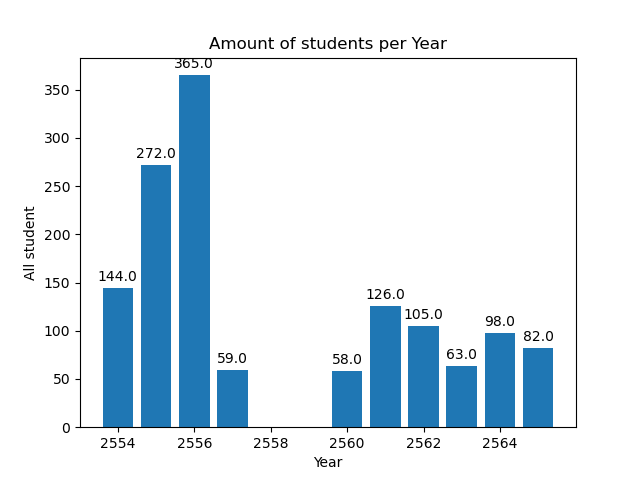
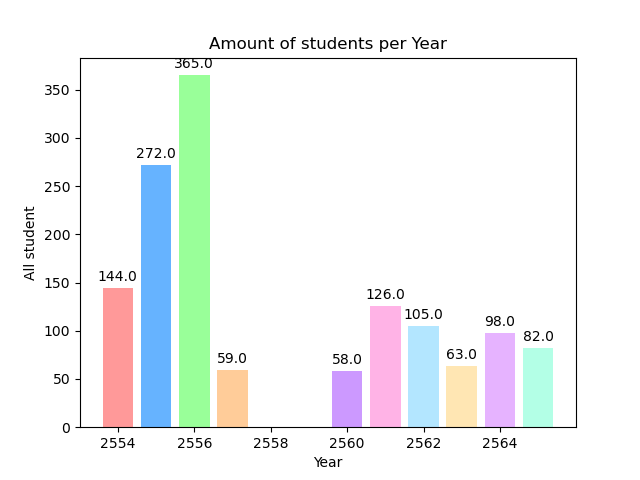
Big update data

Changed region(s): [[0.1562, 0.1562, 0.4062, 0.9062], [0.5, 0.625, 0.875, 0.9062]]

diff --git a/DataFrame of T.kholed/html/bar_chart.html b/DataFrame of T.kholed/html/bar_chart.html
@@ -3,6 +3,6 @@
 <script src="https://cdn.plot.ly/plotly-latest.min.js"></script>
 </head>
 <body>
-<div>                            <div id="62dfd16b-e0f4-4edf-ba11-87b3366b12a1" class="plotly-graph-div" style="height:100%; width:100%;"></div>            <script type="text/javascript">                                    window.PLOTLYENV=window.PLOTLYENV || {};                                    if (document.getElementById("62dfd16b-e0f4-4edf-ba11-87b3366b12a1")) {                    Plotly.newPlot(                        "62dfd16b-e0f4-4edf-ba11-87b3366b12a1",                        [{"x":[2554.0,2555.0,2556.0,2557.0,2560.0,2561.0,2562.0,2563.0,2564.0,2565.0,null,null,null,null,null,null,null,null,null,null,null,null,null,null,null,null,null,null,null,null,null,null,null,null,null,null,null,null,null,null,null,null,null,null,null,null,null,null,null,null,null,null,null,null,null,null,null,null,null,null,null,null,null,null,null,null,null,null,null,null,null,null,null,null,null,null,null,null,null,null,null,null,null,null,null,null,null,null,null,null,null,null,null,null,null,null,null,null,null,null,null,null,null,null,null,null,null,null,null,null,null,null,null,null,null,null,null],"y":[144.0,272.0,365.0,59.0,58.0,126.0,105.0,63.0,98.0,82.0,null,null,null,null,null,null,null,null,null,null,null,null,null,null,null,null,null,null,null,null,null,null,null,null,null,null,null,null,null,null,null,null,null,null,null,null,null,null,null,null,null,null,null,null,null,null,null,null,null,null,null,null,null,null,null,null,null,null,null,null,null,null,null,null,null,null,null,null,null,null,null,null,null,null,null,null,null,null,null,null,null,null,null,null,null,null,null,null,null,null,null,null,null,null,null,null,null,null,null,null,null,null,null,null,null,null,null],"type":"bar"}],                        {"template":{"data":{"candlestick":[{"decreasing":{"line":{"color":"#000033"}},"increasing":{"line":{"color":"#000032"}},"type":"candlestick"}],"contourcarpet":[{"colorscale":[[0.0,"#000011"],[0.1111111111111111,"#000012"],[0.2222222222222222,"#000013"],[0.3333333333333333,"#000014"],[0.4444444444444444,"#000015"],[0.5555555555555556,"#000016"],[0.6666666666666666,"#000017"],[0.7777777777777778,"#000018"],[0.8888888888888888,"#000019"],[1.0,"#000020"]],"type":"contourcarpet"}],"contour":[{"colorscale":[[0.0,"#000011"],[0.1111111111111111,"#000012"],[0.2222222222222222,"#000013"],[0.3333333333333333,"#000014"],[0.4444444444444444,"#000015"],[0.5555555555555556,"#000016"],[0.6666666666666666,"#000017"],[0.7777777777777778,"#000018"],[0.8888888888888888,"#000019"],[1.0,"#000020"]],"type":"contour"}],"heatmap":[{"colorscale":[[0.0,"#000011"],[0.1111111111111111,"#000012"],[0.2222222222222222,"#000013"],[0.3333333333333333,"#000014"],[0.4444444444444444,"#000015"],[0.5555555555555556,"#000016"],[0.6666666666666666,"#000017"],[0.7777777777777778,"#000018"],[0.8888888888888888,"#000019"],[1.0,"#000020"]],"type":"heatmap"}],"histogram2d":[{"colorscale":[[0.0,"#000011"],[0.1111111111111111,"#000012"],[0.2222222222222222,"#000013"],[0.3333333333333333,"#000014"],[0.4444444444444444,"#000015"],[0.5555555555555556,"#000016"],[0.6666666666666666,"#000017"],[0.7777777777777778,"#000018"],[0.8888888888888888,"#000019"],[1.0,"#000020"]],"type":"histogram2d"}],"icicle":[{"textfont":{"color":"white"},"type":"icicle"}],"sankey":[{"textfont":{"color":"#000036"},"type":"sankey"}],"scatter":[{"marker":{"line":{"width":0}},"type":"scatter"}],"table":[{"cells":{"fill":{"color":"#000038"},"font":{"color":"#000037"},"line":{"color":"#000039"}},"header":{"fill":{"color":"#000040"},"font":{"color":"#000036"},"line":{"color":"#000039"}},"type":"table"}],"waterfall":[{"connector":{"line":{"color":"#000036","width":2}},"decreasing":{"marker":{"color":"#000033"}},"increasing":{"marker":{"color":"#000032"}},"totals":{"marker":{"color":"#000034"}},"type":"waterfall"}]},"layout":{"coloraxis":{"colorscale":[[0.0,"#000011"],[0.1111111111111111,"#000012"],[0.2222222222222222,"#000013"],[0.3333333333333333,"#000014"],[0.4444444444444444,"#000015"],[0.5555555555555556,"#000016"],[0.6666666666666666,"#000017"],[0.7777777777777778,"#000018"],[0.8888888888888888,"#000019"],[1.0,"#000020"]]},"colorscale":{"diverging":[[0.0,"#000021"],[0.1,"#000022"],[0.2,"#000023"],[0.3,"#000024"],[0.4,"#000025"],[0.5,"#000026"],[0.6,"#000027"],[0.7,"#000028"],[0.8,"#000029"],[0.9,"#000030"],[1.0,"#000031"]],"sequential":[[0.0,"#000011"],[0.1111111111111111,"#000012"],[0.2222222222222222,"#000013"],[0.3333333333333333,"#000014"],[0.4444444444444444,"#000015"],[0.5555555555555556,"#000016"],[0.6666666666666666,"#000017"],[0.7777777777777778,"#000018"],[0.8888888888888888,"#000019"],[1.0,"#000020"]],"sequentialminus":[[0.0,"#000011"],[0.1111111111111111,"#000012"],[0.2222222222222222,"#000013"],[0.3333333333333333,"#000014"],[0.4444444444444444,"#000015"],[0.5555555555555556,"#000016"],[0.6666666666666666,"#000017"],[0.7777777777777778,"#000018"],[0.8888888888888888,"#000019"],[1.0,"#000020"]]},"colorway":["#000001","#000002","#000003","#000004","#000005","#000006","#000007","#000008","#000009","#000010"]}},"title":{"text":"Interactive Bar Chart"},"xaxis":{"title":{"text":"Year"}},"yaxis":{"range":[0,400],"title":{"text":"All Student"}}},                        {"responsive": true}                    )                };                            </script>        </div>
+<div>                            <div id="0485f252-9502-47e3-be75-21110ecd8c59" class="plotly-graph-div" style="height:100%; width:100%;"></div>            <script type="text/javascript">                                    window.PLOTLYENV=window.PLOTLYENV || {};                                    if (document.getElementById("0485f252-9502-47e3-be75-21110ecd8c59")) {                    Plotly.newPlot(                        "0485f252-9502-47e3-be75-21110ecd8c59",                        [{"marker":{"color":["#ff9999","#66b3ff","#99ff99","#ffcc99","#cc99ff","#ffb3e6","#b3e6ff","#ffe6b3","#e6b3ff","#b3ffe6"]},"x":[2554.0,2555.0,2556.0,2557.0,2560.0,2561.0,2562.0,2563.0,2564.0,2565.0,null,null,null,null,null,null,null,null,null,null,null,null,null,null,null,null,null,null,null,null,null,null,null,null,null,null,null,null,null,null,null,null,null,null,null,null,null,null,null,null,null,null,null,null,null,null,null,null,null,null,null,null,null,null,null,null,null,null,null,null,null,null,null,null,null,null,null,null,null,null,null,null,null,null,null,null,null,null,null,null,null,null,null,null,null,null,null,null,null,null,null,null,null,null,null,null,null,null,null,null,null,null,null,null,null,null,null],"y":[144.0,272.0,365.0,59.0,58.0,126.0,105.0,63.0,98.0,82.0,null,null,null,null,null,null,null,null,null,null,null,null,null,null,null,null,null,null,null,null,null,null,null,null,null,null,null,null,null,null,null,null,null,null,null,null,null,null,null,null,null,null,null,null,null,null,null,null,null,null,null,null,null,null,null,null,null,null,null,null,null,null,null,null,null,null,null,null,null,null,null,null,null,null,null,null,null,null,null,null,null,null,null,null,null,null,null,null,null,null,null,null,null,null,null,null,null,null,null,null,null,null,null,null,null,null,null],"type":"bar"}],                        {"template":{"data":{"candlestick":[{"decreasing":{"line":{"color":"#000033"}},"increasing":{"line":{"color":"#000032"}},"type":"candlestick"}],"contourcarpet":[{"colorscale":[[0.0,"#000011"],[0.1111111111111111,"#000012"],[0.2222222222222222,"#000013"],[0.3333333333333333,"#000014"],[0.4444444444444444,"#000015"],[0.5555555555555556,"#000016"],[0.6666666666666666,"#000017"],[0.7777777777777778,"#000018"],[0.8888888888888888,"#000019"],[1.0,"#000020"]],"type":"contourcarpet"}],"contour":[{"colorscale":[[0.0,"#000011"],[0.1111111111111111,"#000012"],[0.2222222222222222,"#000013"],[0.3333333333333333,"#000014"],[0.4444444444444444,"#000015"],[0.5555555555555556,"#000016"],[0.6666666666666666,"#000017"],[0.7777777777777778,"#000018"],[0.8888888888888888,"#000019"],[1.0,"#000020"]],"type":"contour"}],"heatmap":[{"colorscale":[[0.0,"#000011"],[0.1111111111111111,"#000012"],[0.2222222222222222,"#000013"],[0.3333333333333333,"#000014"],[0.4444444444444444,"#000015"],[0.5555555555555556,"#000016"],[0.6666666666666666,"#000017"],[0.7777777777777778,"#000018"],[0.8888888888888888,"#000019"],[1.0,"#000020"]],"type":"heatmap"}],"histogram2d":[{"colorscale":[[0.0,"#000011"],[0.1111111111111111,"#000012"],[0.2222222222222222,"#000013"],[0.3333333333333333,"#000014"],[0.4444444444444444,"#000015"],[0.5555555555555556,"#000016"],[0.6666666666666666,"#000017"],[0.7777777777777778,"#000018"],[0.8888888888888888,"#000019"],[1.0,"#000020"]],"type":"histogram2d"}],"icicle":[{"textfont":{"color":"white"},"type":"icicle"}],"sankey":[{"textfont":{"color":"#000036"},"type":"sankey"}],"scatter":[{"marker":{"line":{"width":0}},"type":"scatter"}],"table":[{"cells":{"fill":{"color":"#000038"},"font":{"color":"#000037"},"line":{"color":"#000039"}},"header":{"fill":{"color":"#000040"},"font":{"color":"#000036"},"line":{"color":"#000039"}},"type":"table"}],"waterfall":[{"connector":{"line":{"color":"#000036","width":2}},"decreasing":{"marker":{"color":"#000033"}},"increasing":{"marker":{"color":"#000032"}},"totals":{"marker":{"color":"#000034"}},"type":"waterfall"}]},"layout":{"coloraxis":{"colorscale":[[0.0,"#000011"],[0.1111111111111111,"#000012"],[0.2222222222222222,"#000013"],[0.3333333333333333,"#000014"],[0.4444444444444444,"#000015"],[0.5555555555555556,"#000016"],[0.6666666666666666,"#000017"],[0.7777777777777778,"#000018"],[0.8888888888888888,"#000019"],[1.0,"#000020"]]},"colorscale":{"diverging":[[0.0,"#000021"],[0.1,"#000022"],[0.2,"#000023"],[0.3,"#000024"],[0.4,"#000025"],[0.5,"#000026"],[0.6,"#000027"],[0.7,"#000028"],[0.8,"#000029"],[0.9,"#000030"],[1.0,"#000031"]],"sequential":[[0.0,"#000011"],[0.1111111111111111,"#000012"],[0.2222222222222222,"#000013"],[0.3333333333333333,"#000014"],[0.4444444444444444,"#000015"],[0.5555555555555556,"#000016"],[0.6666666666666666,"#000017"],[0.7777777777777778,"#000018"],[0.8888888888888888,"#000019"],[1.0,"#000020"]],"sequentialminus":[[0.0,"#000011"],[0.1111111111111111,"#000012"],[0.2222222222222222,"#000013"],[0.3333333333333333,"#000014"],[0.4444444444444444,"#000015"],[0.5555555555555556,"#000016"],[0.6666666666666666,"#000017"],[0.7777777777777778,"#000018"],[0.8888888888888888,"#000019"],[1.0,"#000020"]]},"colorway":["#000001","#000002","#000003","#000004","#000005","#000006","#000007","#000008","#000009","#000010"]}},"title":{"text":"Interactive Bar Chart"},"xaxis":{"title":{"text":"Year"}},"yaxis":{"range":[0,400],"title":{"text":"All Student"}}},                        {"responsive": true}                    )                };                            </script>        </div>
 </body>
 </html>

diff --git a/DataFrame of T.kholed/html/pie_chart.html b/DataFrame of T.kholed/html/pie_chart.html
@@ -3,6 +3,6 @@
 <script src="https://cdn.plot.ly/plotly-latest.min.js"></script>
 </head>
 <body>
-<div>                            <div id="ffeb7613-6493-4042-a9ae-5b5fd09dc5bb" class="plotly-graph-div" style="height:100%; width:100%;"></div>            <script type="text/javascript">                                    window.PLOTLYENV=window.PLOTLYENV || {};                                    if (document.getElementById("ffeb7613-6493-4042-a9ae-5b5fd09dc5bb")) {                    Plotly.newPlot(                        "ffeb7613-6493-4042-a9ae-5b5fd09dc5bb",                        [{"labels":["Course","Hours","People"],"values":[144.0,272.0,365.0,59.0,58.0,126.0,105.0,63.0,98.0,82.0,null,null,null,null,null,null,null,null,null,null,null,null,null,null,null,null,null,null,null,null,null,null,null,null,null,null,null,null,null,null,null,null,null,null,null,null,null,null,null,null,null,null,null,null,null,null,null,null,null,null,null,null,null,null,null,null,null,null,null,null,null,null,null,null,null,null,null,null,null,null,null,null,null,null,null,null,null,null,null,null,null,null,null,null,null,null,null,null,null,null,null,null,null,null,null,null,null,null,null,null,null,null,null,null,null,null,null],"type":"pie"}],                        {"template":{"data":{"candlestick":[{"decreasing":{"line":{"color":"#000033"}},"increasing":{"line":{"color":"#000032"}},"type":"candlestick"}],"contourcarpet":[{"colorscale":[[0.0,"#000011"],[0.1111111111111111,"#000012"],[0.2222222222222222,"#000013"],[0.3333333333333333,"#000014"],[0.4444444444444444,"#000015"],[0.5555555555555556,"#000016"],[0.6666666666666666,"#000017"],[0.7777777777777778,"#000018"],[0.8888888888888888,"#000019"],[1.0,"#000020"]],"type":"contourcarpet"}],"contour":[{"colorscale":[[0.0,"#000011"],[0.1111111111111111,"#000012"],[0.2222222222222222,"#000013"],[0.3333333333333333,"#000014"],[0.4444444444444444,"#000015"],[0.5555555555555556,"#000016"],[0.6666666666666666,"#000017"],[0.7777777777777778,"#000018"],[0.8888888888888888,"#000019"],[1.0,"#000020"]],"type":"contour"}],"heatmap":[{"colorscale":[[0.0,"#000011"],[0.1111111111111111,"#000012"],[0.2222222222222222,"#000013"],[0.3333333333333333,"#000014"],[0.4444444444444444,"#000015"],[0.5555555555555556,"#000016"],[0.6666666666666666,"#000017"],[0.7777777777777778,"#000018"],[0.8888888888888888,"#000019"],[1.0,"#000020"]],"type":"heatmap"}],"histogram2d":[{"colorscale":[[0.0,"#000011"],[0.1111111111111111,"#000012"],[0.2222222222222222,"#000013"],[0.3333333333333333,"#000014"],[0.4444444444444444,"#000015"],[0.5555555555555556,"#000016"],[0.6666666666666666,"#000017"],[0.7777777777777778,"#000018"],[0.8888888888888888,"#000019"],[1.0,"#000020"]],"type":"histogram2d"}],"icicle":[{"textfont":{"color":"white"},"type":"icicle"}],"sankey":[{"textfont":{"color":"#000036"},"type":"sankey"}],"scatter":[{"marker":{"line":{"width":0}},"type":"scatter"}],"table":[{"cells":{"fill":{"color":"#000038"},"font":{"color":"#000037"},"line":{"color":"#000039"}},"header":{"fill":{"color":"#000040"},"font":{"color":"#000036"},"line":{"color":"#000039"}},"type":"table"}],"waterfall":[{"connector":{"line":{"color":"#000036","width":2}},"decreasing":{"marker":{"color":"#000033"}},"increasing":{"marker":{"color":"#000032"}},"totals":{"marker":{"color":"#000034"}},"type":"waterfall"}]},"layout":{"coloraxis":{"colorscale":[[0.0,"#000011"],[0.1111111111111111,"#000012"],[0.2222222222222222,"#000013"],[0.3333333333333333,"#000014"],[0.4444444444444444,"#000015"],[0.5555555555555556,"#000016"],[0.6666666666666666,"#000017"],[0.7777777777777778,"#000018"],[0.8888888888888888,"#000019"],[1.0,"#000020"]]},"colorscale":{"diverging":[[0.0,"#000021"],[0.1,"#000022"],[0.2,"#000023"],[0.3,"#000024"],[0.4,"#000025"],[0.5,"#000026"],[0.6,"#000027"],[0.7,"#000028"],[0.8,"#000029"],[0.9,"#000030"],[1.0,"#000031"]],"sequential":[[0.0,"#000011"],[0.1111111111111111,"#000012"],[0.2222222222222222,"#000013"],[0.3333333333333333,"#000014"],[0.4444444444444444,"#000015"],[0.5555555555555556,"#000016"],[0.6666666666666666,"#000017"],[0.7777777777777778,"#000018"],[0.8888888888888888,"#000019"],[1.0,"#000020"]],"sequentialminus":[[0.0,"#000011"],[0.1111111111111111,"#000012"],[0.2222222222222222,"#000013"],[0.3333333333333333,"#000014"],[0.4444444444444444,"#000015"],[0.5555555555555556,"#000016"],[0.6666666666666666,"#000017"],[0.7777777777777778,"#000018"],[0.8888888888888888,"#000019"],[1.0,"#000020"]]},"colorway":["#000001","#000002","#000003","#000004","#000005","#000006","#000007","#000008","#000009","#000010"]}},"title":{"text":"Interactive Pie Chart"}},                        {"responsive": true}                    )                };                            </script>        </div>
+<div>                            <div id="cc1d9ba8-88e5-40dc-8f8e-2e8df18d2c94" class="plotly-graph-div" style="height:100%; width:100%;"></div>            <script type="text/javascript">                                    window.PLOTLYENV=window.PLOTLYENV || {};                                    if (document.getElementById("cc1d9ba8-88e5-40dc-8f8e-2e8df18d2c94")) {                    Plotly.newPlot(                        "cc1d9ba8-88e5-40dc-8f8e-2e8df18d2c94",                        [{"labels":["Course","Hours","People"],"marker":{"colors":["#ff9999","#66b3ff","#99ff99"]},"rotation":70,"values":[108,1728,1372],"type":"pie"}],                        {"template":{"data":{"candlestick":[{"decreasing":{"line":{"color":"#000033"}},"increasing":{"line":{"color":"#000032"}},"type":"candlestick"}],"contourcarpet":[{"colorscale":[[0.0,"#000011"],[0.1111111111111111,"#000012"],[0.2222222222222222,"#000013"],[0.3333333333333333,"#000014"],[0.4444444444444444,"#000015"],[0.5555555555555556,"#000016"],[0.6666666666666666,"#000017"],[0.7777777777777778,"#000018"],[0.8888888888888888,"#000019"],[1.0,"#000020"]],"type":"contourcarpet"}],"contour":[{"colorscale":[[0.0,"#000011"],[0.1111111111111111,"#000012"],[0.2222222222222222,"#000013"],[0.3333333333333333,"#000014"],[0.4444444444444444,"#000015"],[0.5555555555555556,"#000016"],[0.6666666666666666,"#000017"],[0.7777777777777778,"#000018"],[0.8888888888888888,"#000019"],[1.0,"#000020"]],"type":"contour"}],"heatmap":[{"colorscale":[[0.0,"#000011"],[0.1111111111111111,"#000012"],[0.2222222222222222,"#000013"],[0.3333333333333333,"#000014"],[0.4444444444444444,"#000015"],[0.5555555555555556,"#000016"],[0.6666666666666666,"#000017"],[0.7777777777777778,"#000018"],[0.8888888888888888,"#000019"],[1.0,"#000020"]],"type":"heatmap"}],"histogram2d":[{"colorscale":[[0.0,"#000011"],[0.1111111111111111,"#000012"],[0.2222222222222222,"#000013"],[0.3333333333333333,"#000014"],[0.4444444444444444,"#000015"],[0.5555555555555556,"#000016"],[0.6666666666666666,"#000017"],[0.7777777777777778,"#000018"],[0.8888888888888888,"#000019"],[1.0,"#000020"]],"type":"histogram2d"}],"icicle":[{"textfont":{"color":"white"},"type":"icicle"}],"sankey":[{"textfont":{"color":"#000036"},"type":"sankey"}],"scatter":[{"marker":{"line":{"width":0}},"type":"scatter"}],"table":[{"cells":{"fill":{"color":"#000038"},"font":{"color":"#000037"},"line":{"color":"#000039"}},"header":{"fill":{"color":"#000040"},"font":{"color":"#000036"},"line":{"color":"#000039"}},"type":"table"}],"waterfall":[{"connector":{"line":{"color":"#000036","width":2}},"decreasing":{"marker":{"color":"#000033"}},"increasing":{"marker":{"color":"#000032"}},"totals":{"marker":{"color":"#000034"}},"type":"waterfall"}]},"layout":{"coloraxis":{"colorscale":[[0.0,"#000011"],[0.1111111111111111,"#000012"],[0.2222222222222222,"#000013"],[0.3333333333333333,"#000014"],[0.4444444444444444,"#000015"],[0.5555555555555556,"#000016"],[0.6666666666666666,"#000017"],[0.7777777777777778,"#000018"],[0.8888888888888888,"#000019"],[1.0,"#000020"]]},"colorscale":{"diverging":[[0.0,"#000021"],[0.1,"#000022"],[0.2,"#000023"],[0.3,"#000024"],[0.4,"#000025"],[0.5,"#000026"],[0.6,"#000027"],[0.7,"#000028"],[0.8,"#000029"],[0.9,"#000030"],[1.0,"#000031"]],"sequential":[[0.0,"#000011"],[0.1111111111111111,"#000012"],[0.2222222222222222,"#000013"],[0.3333333333333333,"#000014"],[0.4444444444444444,"#000015"],[0.5555555555555556,"#000016"],[0.6666666666666666,"#000017"],[0.7777777777777778,"#000018"],[0.8888888888888888,"#000019"],[1.0,"#000020"]],"sequentialminus":[[0.0,"#000011"],[0.1111111111111111,"#000012"],[0.2222222222222222,"#000013"],[0.3333333333333333,"#000014"],[0.4444444444444444,"#000015"],[0.5555555555555556,"#000016"],[0.6666666666666666,"#000017"],[0.7777777777777778,"#000018"],[0.8888888888888888,"#000019"],[1.0,"#000020"]]},"colorway":["#000001","#000002","#000003","#000004","#000005","#000006","#000007","#000008","#000009","#000010"]}},"title":{"text":"Interactive Pie Chart Of Teaching History"}},                        {"responsive": true}                    )                };                            </script>        </div>
 </body>
 </html>

diff --git a/DataFrame of T.kholed/README.md b/DataFrame of T.kholed/README.md
@@ -73,3 +73,5 @@ I decide to:
 ----
 ### 5.Evaluation
 ----
+
+Dataset of history it's become Webpage That show image of ParaGraph.
